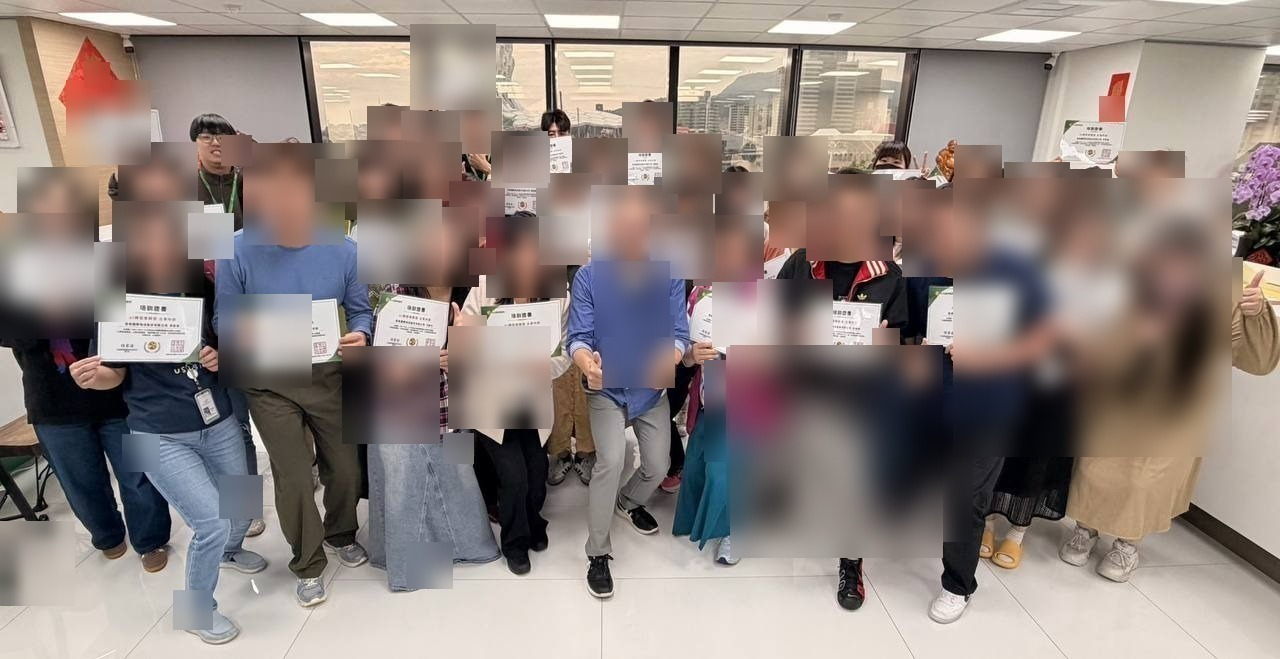
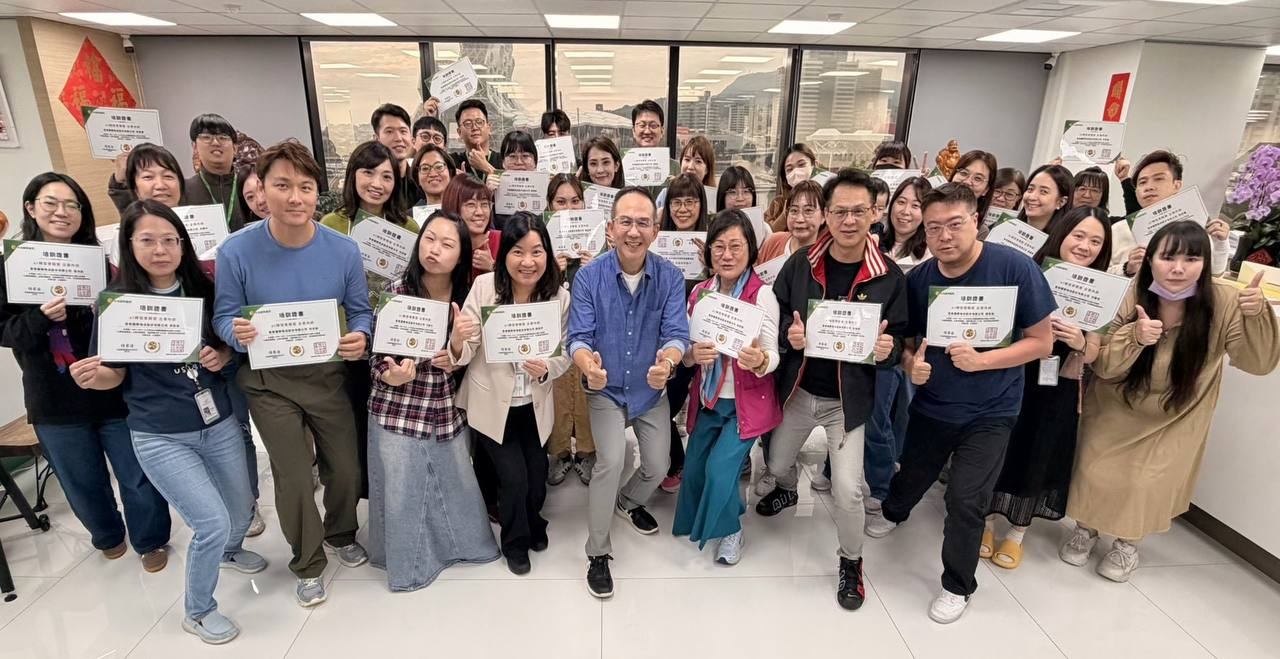
content(events): 改用原始照片（不遮臉），更新圖說

diff --git a/src/app/(zh)/events/draco-ai-training-2026-11/page.tsx b/src/app/(zh)/events/draco-ai-training-2026-11/page.tsx
@@ -79,7 +79,7 @@ export default function Page() {
                 loading="lazy"
               />
               <figcaption className={CAP}>
-                第二天的上課現場。為保護學員，學員臉部已模糊處理。
+                第二天的上課現場。
               </figcaption>
             </figure>
 
@@ -161,7 +161,7 @@ export default function Page() {
                 loading="lazy"
               />
               <figcaption className={CAP}>
-                第二天的成果發表與大合照。為保護學員，學員臉部已模糊處理。
+                第二天的成果發表與大合照。
               </figcaption>
             </figure>
 
@@ -184,7 +184,7 @@ export default function Page() {
                 loading="lazy"
               />
               <figcaption className={CAP}>
-                結訓合影。為保護學員，學員臉部已模糊處理。
+                結訓合影，36 位主管都拿到了結訓證書。
               </figcaption>
             </figure>
 
